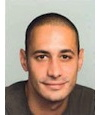
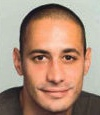
Update Stephane Intissar picture and bio

diff --git a/conference/speakers/_posts/2011-09-02-stephane-intissar.md b/conference/speakers/_posts/2011-09-02-stephane-intissar.md
@@ -7,6 +7,5 @@ session: "Cross platform development using Unity3d"
 sessionParam: crossplatformdevelopmentusingunity3d
 ---
 
-.
-.
-.
+Stephane Intissar is Sr Architect & Developer at FinScore SA since 2010. As a technology expert, Stephane has detailed knowledge of providing consulting services for implementing solutions for mobile platforms, 3D game development and graphical design.
+Stephane holds a Master of Sciences from Georgia Tech and an engineering diploma from Ecole des Mines (France). He has held various software engineering positions over the last decade, including Developer, CTO, and Product Manager for the Gaming, Telecom and IT Industry.
